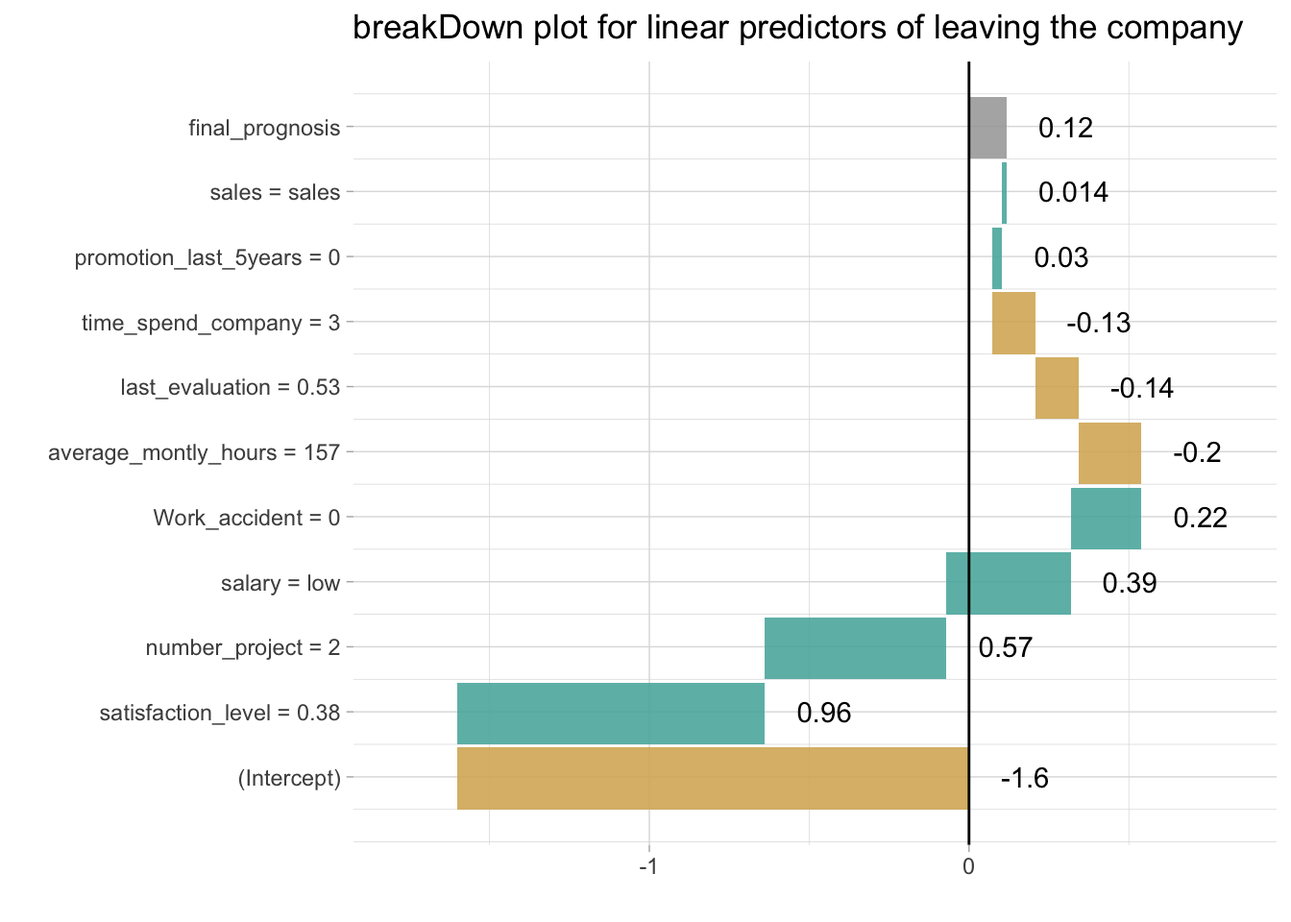
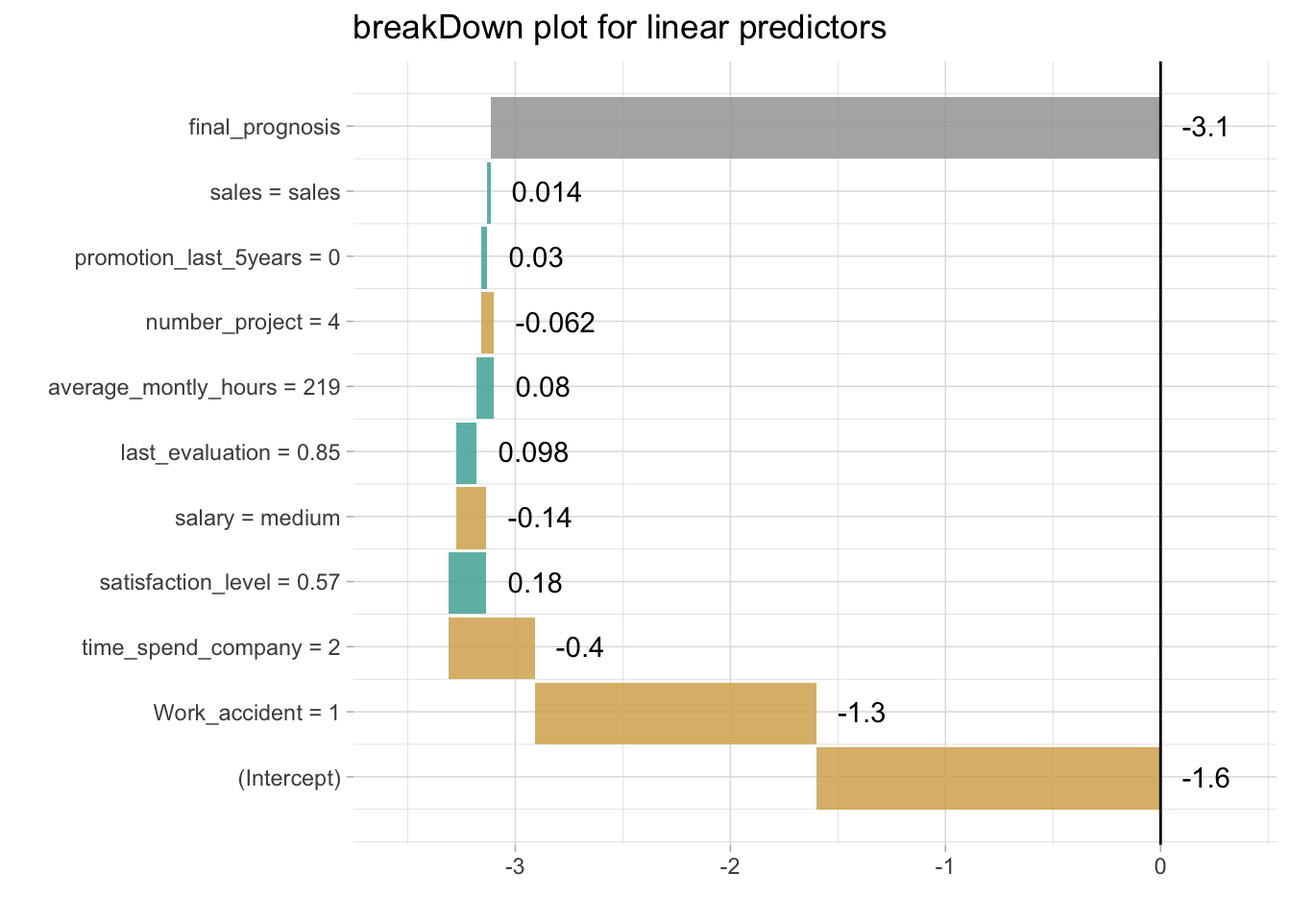
new site

diff --git a/docs/articles/break_ranger.html b/docs/articles/break_ranger.html
@@ -5,7 +5,7 @@
 <meta charset="utf-8">
 <meta http-equiv="X-UA-Compatible" content="IE=edge">
 <meta name="viewport" content="width=device-width, initial-scale=1.0">
-<title>breakDown plots for the generalised linear model • breakDown</title>
+<title>breakDown plots for the ranger model • breakDown</title>
 <!-- jquery --><script src="https://code.jquery.com/jquery-3.1.0.min.js" integrity="sha384-nrOSfDHtoPMzJHjVTdCopGqIqeYETSXhZDFyniQ8ZHcVy08QesyHcnOUpMpqnmWq" crossorigin="anonymous"></script><!-- Bootstrap --><link href="https://maxcdn.bootstrapcdn.com/bootstrap/3.3.7/css/bootstrap.min.css" rel="stylesheet" integrity="sha384-BVYiiSIFeK1dGmJRAkycuHAHRg32OmUcww7on3RYdg4Va+PmSTsz/K68vbdEjh4u" crossorigin="anonymous">
 <script src="https://maxcdn.bootstrapcdn.com/bootstrap/3.3.7/js/bootstrap.min.js" integrity="sha384-Tc5IQib027qvyjSMfHjOMaLkfuWVxZxUPnCJA7l2mCWNIpG9mGCD8wGNIcPD7Txa" crossorigin="anonymous"></script><!-- Font Awesome icons --><link href="https://maxcdn.bootstrapcdn.com/font-awesome/4.6.3/css/font-awesome.min.css" rel="stylesheet" integrity="sha384-T8Gy5hrqNKT+hzMclPo118YTQO6cYprQmhrYwIiQ/3axmI1hQomh7Ud2hPOy8SP1" crossorigin="anonymous">
 <!-- pkgdown --><link href="../pkgdown.css" rel="stylesheet">
@@ -73,7 +73,7 @@
       </header><div class="row">
   <div class="col-md-9">
     <div class="page-header toc-ignore">
-      <h1>breakDown plots for the generalised linear model</h1>
+      <h1>breakDown plots for the ranger model</h1>
                         <h4 class="author">Przemyslaw Biecek</h4>
             
             <h4 class="date">2017-12-02</h4>
@@ -82,7 +82,7 @@
     
     
 <div class="contents">
-<p>Here we will use the HR churn data (<a href="https://www.kaggle.com/ludobenistant/hr-analytics/data" class="uri">https://www.kaggle.com/ludobenistant/hr-analytics/data</a>) to present the breakDown package for <code>glm</code> models.</p>
+<p>Here we will use the HR churn data (<a href="https://www.kaggle.com/ludobenistant/hr-analytics/data" class="uri">https://www.kaggle.com/ludobenistant/hr-analytics/data</a>) to present the <code>breakDown</code> package for <code>ranger</code> models.</p>
 <p>The data is in the <code>breakDown</code> package</p>
 <div class="sourceCode"><pre class="sourceCode r"><code class="sourceCode r"><span class="kw">library</span>(breakDown)
 <span class="kw">head</span>(HR_data, <span class="dv">3</span>)
@@ -94,49 +94,60 @@
 <span class="co">#&gt; 1                  3             0    1                     0 sales    low</span>
 <span class="co">#&gt; 2                  6             0    1                     0 sales medium</span>
 <span class="co">#&gt; 3                  4             0    1                     0 sales medium</span></code></pre></div>
-<p>Now let’s create a logistic regression model for churn, the <code>left</code> variable.</p>
-<div class="sourceCode"><pre class="sourceCode r"><code class="sourceCode r">model &lt;-<span class="st"> </span><span class="kw">glm</span>(left<span class="op">~</span>., <span class="dt">data =</span> HR_data, <span class="dt">family =</span> <span class="st">"binomial"</span>)</code></pre></div>
+<p>Now let’s create a <code>ranger</code> classification forest for churn, the <code>left</code> variable.</p>
+<div class="sourceCode"><pre class="sourceCode r"><code class="sourceCode r"><span class="kw">library</span>(ranger)
+HR_data<span class="op">$</span>left &lt;-<span class="st"> </span><span class="kw">factor</span>(HR_data<span class="op">$</span>left)
+model &lt;-<span class="st"> </span><span class="kw"><a href="http://www.rdocumentation.org/packages/ranger/topics/ranger">ranger</a></span>(left <span class="op">~</span><span class="st"> </span>., <span class="dt">data =</span> HR_data, <span class="dt">importance =</span> <span class="st">'impurity'</span>, <span class="dt">min.node.size =</span> <span class="dv">10</span>)</code></pre></div>
+<p>Variable importance for all trees in the forest.</p>
+<div class="sourceCode"><pre class="sourceCode r"><code class="sourceCode r"><span class="kw"><a href="http://www.rdocumentation.org/packages/ranger/topics/importance.ranger">importance</a></span>(model)
+<span class="co">#&gt;    satisfaction_level       last_evaluation        number_project </span>
+<span class="co">#&gt;           1828.254621            618.437884            942.880374 </span>
+<span class="co">#&gt;  average_montly_hours    time_spend_company         Work_accident </span>
+<span class="co">#&gt;            764.866356            977.718562             28.382306 </span>
+<span class="co">#&gt; promotion_last_5years                 sales                salary </span>
+<span class="co">#&gt;              5.152408             41.323609             30.812704</span></code></pre></div>
 <p>But how to understand which factors drive predictions for a single observation?</p>
 <p>With the <code>breakDown</code> package!</p>
-<p>Explanations for the linear predictor.</p>
+<p>Explanations for the trees votings.</p>
 <div class="sourceCode"><pre class="sourceCode r"><code class="sourceCode r"><span class="kw">library</span>(ggplot2)
 explain_<span class="dv">1</span> &lt;-<span class="st"> </span><span class="kw"><a href="../reference/broken.html">broken</a></span>(model, HR_data[<span class="dv">1159</span>,])
 explain_<span class="dv">1</span>
 <span class="co">#&gt;                            contribution</span>
-<span class="co">#&gt; (Intercept)                      -1.600</span>
-<span class="co">#&gt; Work_accident = 1                -1.300</span>
-<span class="co">#&gt; time_spend_company = 2           -0.400</span>
-<span class="co">#&gt; satisfaction_level = 0.57         0.180</span>
-<span class="co">#&gt; salary = medium                  -0.140</span>
-<span class="co">#&gt; last_evaluation = 0.85            0.098</span>
-<span class="co">#&gt; average_montly_hours = 219        0.080</span>
-<span class="co">#&gt; number_project = 4               -0.062</span>
-<span class="co">#&gt; promotion_last_5years = 0         0.030</span>
-<span class="co">#&gt; sales = sales                     0.014</span>
-<span class="co">#&gt; final_prognosis                  -3.100</span>
-<span class="co">#&gt; baseline:  0</span>
-<span class="kw">plot</span>(explain_<span class="dv">1</span>) <span class="op">+</span><span class="st"> </span><span class="kw"><a href="http://www.rdocumentation.org/packages/ggplot2/topics/labs">ggtitle</a></span>(<span class="st">"breakDown plot for linear predictors"</span>)</code></pre></div>
-<p><img src="break_glm_files/figure-html/unnamed-chunk-3-1.png" width="672"></p>
-<p>Explanations for the probability with intercept set as an origin.</p>
-<div class="sourceCode"><pre class="sourceCode r"><code class="sourceCode r">explain_<span class="dv">1</span> &lt;-<span class="st"> </span><span class="kw"><a href="../reference/broken.html">broken</a></span>(model, HR_data[<span class="dv">1159</span>,], <span class="dt">baseline =</span> <span class="st">"intercept"</span>)
-explain_<span class="dv">1</span>
-<span class="co">#&gt;                            contribution</span>
-<span class="co">#&gt; Work_accident = 1                -1.300</span>
-<span class="co">#&gt; time_spend_company = 2           -0.400</span>
-<span class="co">#&gt; satisfaction_level = 0.57         0.180</span>
-<span class="co">#&gt; salary = medium                  -0.140</span>
-<span class="co">#&gt; last_evaluation = 0.85            0.098</span>
-<span class="co">#&gt; average_montly_hours = 219        0.080</span>
-<span class="co">#&gt; number_project = 4               -0.062</span>
-<span class="co">#&gt; promotion_last_5years = 0         0.030</span>
-<span class="co">#&gt; sales = sales                     0.014</span>
-<span class="co">#&gt; final_prognosis                  -1.500</span>
-<span class="co">#&gt; baseline:  -1.601457</span>
-<span class="kw">plot</span>(explain_<span class="dv">1</span>, 
-     <span class="dt">trans =</span> <span class="cf">function</span>(x) <span class="kw">exp</span>(x)<span class="op">/</span>(<span class="dv">1</span><span class="op">+</span><span class="kw">exp</span>(x))) <span class="op">+</span><span class="st"> </span><span class="kw"><a href="http://www.rdocumentation.org/packages/ggplot2/topics/labs">ggtitle</a></span>(<span class="st">"Predicted probability of leaving the company"</span>)<span class="op">+</span><span class="st"> </span><span class="kw"><a href="http://www.rdocumentation.org/packages/ggplot2/topics/scale_continuous">scale_y_continuous</a></span>( <span class="dt">limits =</span> <span class="kw">c</span>(<span class="dv">0</span>,<span class="dv">1</span>), <span class="dt">name =</span> <span class="st">"probability"</span>, <span class="dt">expand =</span> <span class="kw">c</span>(<span class="dv">0</span>,<span class="dv">0</span>))
+<span class="co">#&gt; time_spend_company = 2           0.0480</span>
+<span class="co">#&gt; satisfaction_level = 0.57        0.0460</span>
+<span class="co">#&gt; average_montly_hours = 219       0.0430</span>
+<span class="co">#&gt; number_project = 4               0.0410</span>
+<span class="co">#&gt; last_evaluation = 0.85           0.0380</span>
+<span class="co">#&gt; Work_accident = 1                0.0310</span>
+<span class="co">#&gt; sales = sales                    0.0220</span>
+<span class="co">#&gt; salary = medium                  0.0160</span>
+<span class="co">#&gt; promotion_last_5years = 0        0.0034</span>
+<span class="co">#&gt; final_prognosis                  0.2900</span>
+<span class="co">#&gt; baseline:  0.5</span>
+<span class="kw">plot</span>(explain_<span class="dv">1</span>) <span class="op">+</span><span class="st"> </span><span class="kw"><a href="http://www.rdocumentation.org/packages/ggplot2/topics/scale_continuous">scale_y_continuous</a></span>( <span class="dt">limits =</span> <span class="kw">c</span>(<span class="dv">0</span>,<span class="dv">1</span>), <span class="dt">name =</span> <span class="st">"fraction of trees"</span>, <span class="dt">expand =</span> <span class="kw">c</span>(<span class="dv">0</span>,<span class="dv">0</span>))
 <span class="co">#&gt; Scale for 'y' is already present. Adding another scale for 'y', which</span>
 <span class="co">#&gt; will replace the existing scale.</span></code></pre></div>
-<p><img src="break_glm_files/figure-html/unnamed-chunk-4-1.png" width="672"></p>
+<p><img src="break_ranger_files/figure-html/unnamed-chunk-4-1.png" width="672"></p>
+<div class="sourceCode"><pre class="sourceCode r"><code class="sourceCode r">
+explain_<span class="dv">1</span> &lt;-<span class="st"> </span><span class="kw"><a href="../reference/broken.html">broken</a></span>(model, HR_data[<span class="dv">10099</span>,])
+explain_<span class="dv">1</span>
+<span class="co">#&gt;                            contribution</span>
+<span class="co">#&gt; time_spend_company = 5           -0.041</span>
+<span class="co">#&gt; satisfaction_level = 0.73        -0.041</span>
+<span class="co">#&gt; average_montly_hours = 266       -0.040</span>
+<span class="co">#&gt; last_evaluation = 0.83           -0.040</span>
+<span class="co">#&gt; number_project = 5               -0.039</span>
+<span class="co">#&gt; salary = low                     -0.024</span>
+<span class="co">#&gt; Work_accident = 0                -0.019</span>
+<span class="co">#&gt; sales = sales                    -0.017</span>
+<span class="co">#&gt; promotion_last_5years = 0        -0.010</span>
+<span class="co">#&gt; final_prognosis                  -0.270</span>
+<span class="co">#&gt; baseline:  0.5</span>
+<span class="kw">plot</span>(explain_<span class="dv">1</span>) <span class="op">+</span><span class="st"> </span><span class="kw"><a href="http://www.rdocumentation.org/packages/ggplot2/topics/scale_continuous">scale_y_continuous</a></span>( <span class="dt">limits =</span> <span class="kw">c</span>(<span class="dv">0</span>,<span class="dv">1</span>), <span class="dt">name =</span> <span class="st">"fraction of trees"</span>, <span class="dt">expand =</span> <span class="kw">c</span>(<span class="dv">0</span>,<span class="dv">0</span>))
+<span class="co">#&gt; Scale for 'y' is already present. Adding another scale for 'y', which</span>
+<span class="co">#&gt; will replace the existing scale.</span></code></pre></div>
+<p><img src="break_ranger_files/figure-html/unnamed-chunk-4-2.png" width="672"></p>
+<p>This is not the right approach.</p>
 </div>
   </div>
 

diff --git a/docs/reference/broken.ranger.html b/docs/reference/broken.ranger.html
@@ -6,7 +6,7 @@
 <meta http-equiv="X-UA-Compatible" content="IE=edge">
 <meta name="viewport" content="width=device-width, initial-scale=1.0">
 
-<title>Create the broken object for lm models — broken.lm • breakDown</title>
+<title>Create the broken object for ranger models — broken.ranger • breakDown</title>
 
 <!-- jquery -->
 <script src="https://code.jquery.com/jquery-3.1.0.min.js" integrity="sha384-nrOSfDHtoPMzJHjVTdCopGqIqeYETSXhZDFyniQ8ZHcVy08QesyHcnOUpMpqnmWq" crossorigin="anonymous"></script>
@@ -99,14 +99,14 @@
       <div class="row">
   <div class="col-md-9 contents">
     <div class="page-header">
-    <h1>Create the broken object for lm models</h1>
+    <h1>Create the broken object for ranger models</h1>
     </div>
 
     
-    <p>Create the broken object for lm models</p>
+    <p>Create the broken object for ranger models</p>
     
 
-    <pre class="usage"><span class='co'># S3 method for lm</span>
+    <pre class="usage"><span class='co'># S3 method for ranger</span>
 <span class='fu'><a href='broken.html'>broken</a></span>(<span class='no'>model</span>, <span class='no'>new_observation</span>, <span class='no'>...</span>, <span class='kw'>baseline</span> <span class='kw'>=</span> <span class='fl'>0</span>)</pre>
     
     <h2 class="hasAnchor" id="arguments"><a class="anchor" href="#arguments"></a> Arguments</h2>
@@ -114,7 +114,7 @@
     <colgroup><col class="name" /><col class="desc" /></colgroup>
     <tr>
       <th>model</th>
-      <td><p>a lm model</p></td>
+      <td><p>a ranger model</p></td>
     </tr>
     <tr>
       <th>new_observation</th>
@@ -136,10 +136,29 @@
     
 
     <h2 class="hasAnchor" id="examples"><a class="anchor" href="#examples"></a>Examples</h2>
-    <pre class="examples"><div class='input'><span class='no'>model</span> <span class='kw'>&lt;-</span> <span class='fu'>lm</span>(<span class='no'>Sepal.Length</span>~<span class='no'>.</span>, <span class='kw'>data</span><span class='kw'>=</span><span class='no'>iris</span>)
-<span class='no'>new_observation</span> <span class='kw'>&lt;-</span> <span class='no'>iris</span>[<span class='fl'>1</span>,]
-<span class='no'>br</span> <span class='kw'>&lt;-</span> <span class='fu'><a href='broken.html'>broken</a></span>(<span class='no'>model</span>, <span class='no'>new_observation</span>)
-<span class='fu'>plot</span>(<span class='no'>br</span>)</div><div class='img'><img src='broken.lm-7.png' alt='' width='700' height='432.632880098887' /></div></pre>
+    <pre class="examples"><div class='input'><span class='fu'>library</span>(<span class='no'>ranger</span>)
+<span class='no'>model</span> <span class='kw'>&lt;-</span> <span class='fu'><a href='http://www.rdocumentation.org/packages/ranger/topics/ranger'>ranger</a></span>(<span class='fu'>factor</span>(<span class='no'>left</span>) ~ <span class='no'>.</span>, <span class='kw'>data</span> <span class='kw'>=</span> <span class='no'>HR_data</span>, <span class='kw'>importance</span> <span class='kw'>=</span> <span class='st'>'impurity'</span>)
+<span class='fu'><a href='http://www.rdocumentation.org/packages/ranger/topics/importance.ranger'>importance</a></span>(<span class='no'>model</span>)</div><div class='output co'>#&gt;    satisfaction_level       last_evaluation        number_project 
+#&gt;           1860.877825            650.583646           1021.324791 
+#&gt;  average_montly_hours    time_spend_company         Work_accident 
+#&gt;            745.926354            989.788175             33.149265 
+#&gt; promotion_last_5years                 sales                salary 
+#&gt;              4.695325             62.792507             41.011149 </div><div class='input'><span class='no'>new_observation</span> <span class='kw'>&lt;-</span> <span class='no'>HR_data</span>[<span class='fl'>10099</span>,]
+<span class='no'>explain_1</span> <span class='kw'>&lt;-</span> <span class='fu'><a href='broken.html'>broken</a></span>(<span class='no'>model</span>, <span class='no'>new_observation</span>)
+<span class='no'>explain_1</span></div><div class='output co'>#&gt;                            contribution
+#&gt; sales = sales                    0.0095
+#&gt; average_montly_hours = 266       0.0040
+#&gt; salary = low                     0.0036
+#&gt; satisfaction_level = 0.73        0.0036
+#&gt; last_evaluation = 0.83           0.0036
+#&gt; number_project = 5               0.0033
+#&gt; time_spend_company = 5           0.0029
+#&gt; promotion_last_5years = 0       -0.0020
+#&gt; Work_accident = 0                0.0016
+#&gt; final_prognosis                  0.0300
+#&gt; baseline:  0.5 </div><div class='input'><span class='fu'>plot</span>(<span class='no'>explain_1</span>) + <span class='fu'>ggtitle</span>(<span class='st'>"breakDown plot for linear predictors of leaving the company"</span>)+ <span class='fu'>scale_y_continuous</span>( <span class='kw'>limits</span> <span class='kw'>=</span> <span class='fu'>c</span>(<span class='fl'>0</span>,<span class='fl'>1</span>), <span class='kw'>name</span> <span class='kw'>=</span> <span class='st'>"fraction of trees"</span>, <span class='kw'>expand</span> <span class='kw'>=</span> <span class='fu'>c</span>(<span class='fl'>0.1</span>,<span class='fl'>0.1</span>))</div><div class='output co'>#&gt; <span class='message'>Scale for 'y' is already present. Adding another scale for 'y', which will</span>
+#&gt; <span class='message'>replace the existing scale.</span></div><div class='img'><img src='broken.ranger-2.png' alt='' width='700' height='432.632880098887' /></div><div class='input'>
+</div></pre>
   </div>
   <div class="col-md-3 hidden-xs hidden-sm" id="sidebar">
     <h2>Contents</h2>

diff --git a/docs/reference/broken.glm.html b/docs/reference/broken.glm.html
@@ -76,6 +76,9 @@
     <li>
       <a href="../articles/break_lm.html">breakDown plots for the linear model</a>
     </li>
+    <li>
+      <a href="../articles/break_ranger.html">breakDown plots for the ranger model</a>
+    </li>
   </ul>
 </li>
 <li>
@@ -104,7 +107,7 @@
     
 
     <pre class="usage"><span class='co'># S3 method for glm</span>
-<span class='fu'><a href='broken.html'>broken</a></span>(<span class='no'>model</span>, <span class='no'>new_observation</span>, <span class='no'>...</span>)</pre>
+<span class='fu'><a href='broken.html'>broken</a></span>(<span class='no'>model</span>, <span class='no'>new_observation</span>, <span class='no'>...</span>, <span class='kw'>baseline</span> <span class='kw'>=</span> <span class='fl'>0</span>)</pre>
     
     <h2 class="hasAnchor" id="arguments"><a class="anchor" href="#arguments"></a> Arguments</h2>
     <table class="ref-arguments">
@@ -120,6 +123,10 @@
     <tr>
       <th>...</th>
       <td><p>other parameters</p></td>
+    </tr>
+    <tr>
+      <th>baseline</th>
+      <td><p>the orgin/baseline for the breakDown plots, where the rectangles start. It may be a number or a character "Intercept". In the latter case the orgin will be set to model intercept.</p></td>
     </tr>
     </table>
     
@@ -137,7 +144,7 @@
 <span class='no'>new_observation</span> <span class='kw'>&lt;-</span> <span class='no'>wine</span>[<span class='fl'>1</span>,]
 <span class='no'>br</span> <span class='kw'>&lt;-</span> <span class='fu'><a href='broken.html'>broken</a></span>(<span class='no'>modelg</span>, <span class='no'>new_observation</span>)
 <span class='no'>logit</span> <span class='kw'>&lt;-</span> <span class='kw'>function</span>(<span class='no'>x</span>) <span class='fu'>exp</span>(<span class='no'>x</span>)/(<span class='fl'>1</span>+<span class='fu'>exp</span>(<span class='no'>x</span>))
-<span class='fu'>plot</span>(<span class='no'>br</span>, <span class='no'>logit</span>)</div><div class='img'><img src='broken.glm-13.png' alt='' width='700' height='432.632880098887' /></div><div class='input'>
+<span class='fu'>plot</span>(<span class='no'>br</span>, <span class='no'>logit</span>)</div><div class='img'><img src='broken.glm-19.png' alt='' width='700' height='432.632880098887' /></div><div class='input'>
 <span class='co'># example for HR_data</span>
 <span class='no'>model</span> <span class='kw'>&lt;-</span> <span class='fu'>glm</span>(<span class='no'>left</span>~<span class='no'>.</span>, <span class='kw'>data</span> <span class='kw'>=</span> <span class='no'>HR_data</span>, <span class='kw'>family</span> <span class='kw'>=</span> <span class='st'>"binomial"</span>)
 <span class='no'>explain_1</span> <span class='kw'>&lt;-</span> <span class='fu'><a href='broken.html'>broken</a></span>(<span class='no'>model</span>, <span class='no'>HR_data</span>[<span class='fl'>1</span>,])
@@ -153,7 +160,7 @@
 #&gt; promotion_last_5years = 0         0.030
 #&gt; sales = sales                     0.014
 #&gt; final_prognosis                   0.120
-#&gt; baseline:  0 </div><div class='input'><span class='fu'>plot</span>(<span class='no'>explain_1</span>)</div><div class='img'><img src='broken.glm-14.png' alt='' width='700' height='432.632880098887' /></div><div class='input'><span class='fu'>plot</span>(<span class='no'>explain_1</span>, <span class='kw'>trans</span> <span class='kw'>=</span> <span class='kw'>function</span>(<span class='no'>x</span>) <span class='fu'>exp</span>(<span class='no'>x</span>)/(<span class='fl'>1</span>+<span class='fu'>exp</span>(<span class='no'>x</span>)))</div><div class='img'><img src='broken.glm-15.png' alt='' width='700' height='432.632880098887' /></div><div class='input'>
+#&gt; baseline:  0 </div><div class='input'><span class='fu'>plot</span>(<span class='no'>explain_1</span>)</div><div class='img'><img src='broken.glm-20.png' alt='' width='700' height='432.632880098887' /></div><div class='input'><span class='fu'>plot</span>(<span class='no'>explain_1</span>, <span class='kw'>trans</span> <span class='kw'>=</span> <span class='kw'>function</span>(<span class='no'>x</span>) <span class='fu'>exp</span>(<span class='no'>x</span>)/(<span class='fl'>1</span>+<span class='fu'>exp</span>(<span class='no'>x</span>)))</div><div class='img'><img src='broken.glm-21.png' alt='' width='700' height='432.632880098887' /></div><div class='input'>
 </div></pre>
   </div>
   <div class="col-md-3 hidden-xs hidden-sm" id="sidebar">

diff --git a/docs/reference/create.broken.html b/docs/reference/create.broken.html
@@ -7,7 +7,7 @@
 <meta name="viewport" content="width=device-width, initial-scale=1.0">
 
 <title>Clean the object of the broken class
-Internatl function — create.broken • breakDown</title>
+Internal function — create.broken • breakDown</title>
 
 <!-- jquery -->
 <script src="https://code.jquery.com/jquery-3.1.0.min.js" integrity="sha384-nrOSfDHtoPMzJHjVTdCopGqIqeYETSXhZDFyniQ8ZHcVy08QesyHcnOUpMpqnmWq" crossorigin="anonymous"></script>
@@ -77,6 +77,9 @@ Internatl function — create.broken • breakDown</title>
     <li>
       <a href="../articles/break_lm.html">breakDown plots for the linear model</a>
     </li>
+    <li>
+      <a href="../articles/break_ranger.html">breakDown plots for the ranger model</a>
+    </li>
   </ul>
 </li>
 <li>
@@ -98,15 +101,15 @@ Internatl function — create.broken • breakDown</title>
   <div class="col-md-9 contents">
     <div class="page-header">
     <h1>Clean the object of the broken class
-Internatl function</h1>
+Internal function</h1>
     </div>
 
     
     <p>Clean the object of the broken class
-Internatl function</p>
+Internal function</p>
     
 
-    <pre class="usage"><span class='fu'>create.broken</span>(<span class='no'>broken_intercept</span>)</pre>
+    <pre class="usage"><span class='fu'>create.broken</span>(<span class='no'>broken_intercept</span>, <span class='kw'>baseline</span> <span class='kw'>=</span> <span class='fl'>0</span>)</pre>
         
     <h2 class="hasAnchor" id="value"><a class="anchor" href="#value"></a>Value</h2>
 

diff --git a/docs/reference/index.html b/docs/reference/index.html
@@ -76,6 +76,9 @@
     <li>
       <a href="../articles/break_lm.html">breakDown plots for the linear model</a>
     </li>
+    <li>
+      <a href="../articles/break_ranger.html">breakDown plots for the ranger model</a>
+    </li>
   </ul>
 </li>
 <li>
@@ -132,6 +135,12 @@
         </tr><tr>
           <!--  -->
           <td>
+            <p><code><a href="broken.ranger.html">broken</a></code> </p>
+          </td>
+          <td><p>Create the broken object for ranger models</p></td>
+        </tr><tr>
+          <!--  -->
+          <td>
             <p><code><a href="broken.html">broken</a></code> </p>
           </td>
           <td><p>Create the broken object</p></td>
@@ -141,7 +150,7 @@
             <p><code><a href="create.broken.html">create.broken</a></code> </p>
           </td>
           <td><p>Clean the object of the broken class
-Internatl function</p></td>
+Internal function</p></td>
         </tr><tr>
           <!--  -->
           <td>

diff --git a/docs/index.html b/docs/index.html
@@ -52,6 +52,9 @@
     <li>
       <a href="articles/break_lm.html">breakDown plots for the linear model</a>
     </li>
+    <li>
+      <a href="articles/break_ranger.html">breakDown plots for the ranger model</a>
+    </li>
   </ul>
 </li>
 <li>
@@ -74,7 +77,7 @@
 <div id="breakdown" class="section level1">
 <div class="page-header"><h1 class="hasAnchor">
 <a href="#breakdown" class="anchor"></a>breakDown</h1></div>
-<p>Modified Waterfall plots for xgboost, glm, lm, LightGBM and randomForest</p>
+<p>Modified Waterfall plots for glm, lm and randomForest</p>
 <div id="install-from-github" class="section level2">
 <h2 class="hasAnchor">
 <a href="#install-from-github" class="anchor"></a>Install from GitHub</h2>

diff --git a/docs/articles/index.html b/docs/articles/index.html
@@ -76,6 +76,9 @@
     <li>
       <a href="../articles/break_lm.html">breakDown plots for the linear model</a>
     </li>
+    <li>
+      <a href="../articles/break_ranger.html">breakDown plots for the ranger model</a>
+    </li>
   </ul>
 </li>
 <li>
@@ -106,6 +109,7 @@
       <ul>
         <li><a href="break_glm.html">breakDown plots for the generalised linear model</a></li>
         <li><a href="break_lm.html">breakDown plots for the linear model</a></li>
+        <li><a href="break_ranger.html">breakDown plots for the ranger model</a></li>
       </ul>
     </div>
   </div>

diff --git a/docs/articles/break_lm.html b/docs/articles/break_lm.html
@@ -52,6 +52,9 @@
     <li>
       <a href="../articles/break_lm.html">breakDown plots for the linear model</a>
     </li>
+    <li>
+      <a href="../articles/break_ranger.html">breakDown plots for the ranger model</a>
+    </li>
   </ul>
 </li>
 <li>

diff --git a/docs/news/index.html b/docs/news/index.html
@@ -76,6 +76,9 @@
     <li>
       <a href="../articles/break_lm.html">breakDown plots for the linear model</a>
     </li>
+    <li>
+      <a href="../articles/break_ranger.html">breakDown plots for the ranger model</a>
+    </li>
   </ul>
 </li>
 <li>

diff --git a/docs/reference/HR_data.html b/docs/reference/HR_data.html
@@ -76,6 +76,9 @@
     <li>
       <a href="../articles/break_lm.html">breakDown plots for the linear model</a>
     </li>
+    <li>
+      <a href="../articles/break_ranger.html">breakDown plots for the ranger model</a>
+    </li>
   </ul>
 </li>
 <li>

diff --git a/docs/reference/broken.html b/docs/reference/broken.html
@@ -76,6 +76,9 @@
     <li>
       <a href="../articles/break_lm.html">breakDown plots for the linear model</a>
     </li>
+    <li>
+      <a href="../articles/break_ranger.html">breakDown plots for the ranger model</a>
+    </li>
   </ul>
 </li>
 <li>

diff --git a/docs/reference/plot.broken.html b/docs/reference/plot.broken.html
@@ -76,6 +76,9 @@
     <li>
       <a href="../articles/break_lm.html">breakDown plots for the linear model</a>
     </li>
+    <li>
+      <a href="../articles/break_ranger.html">breakDown plots for the ranger model</a>
+    </li>
   </ul>
 </li>
 <li>
